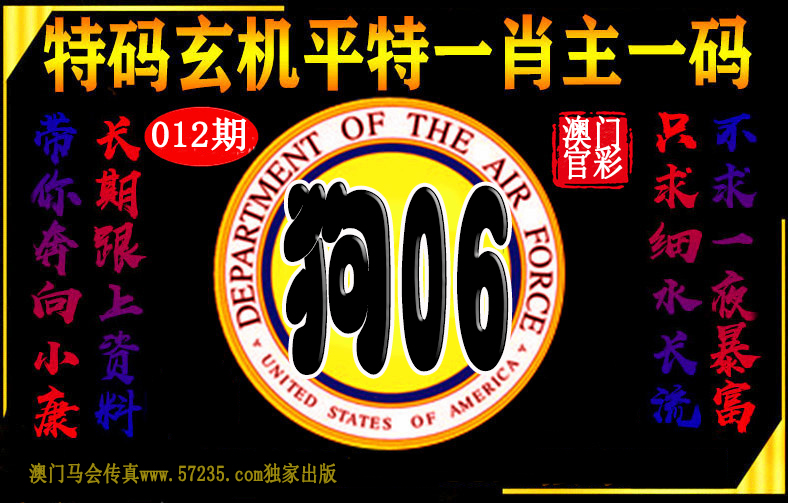
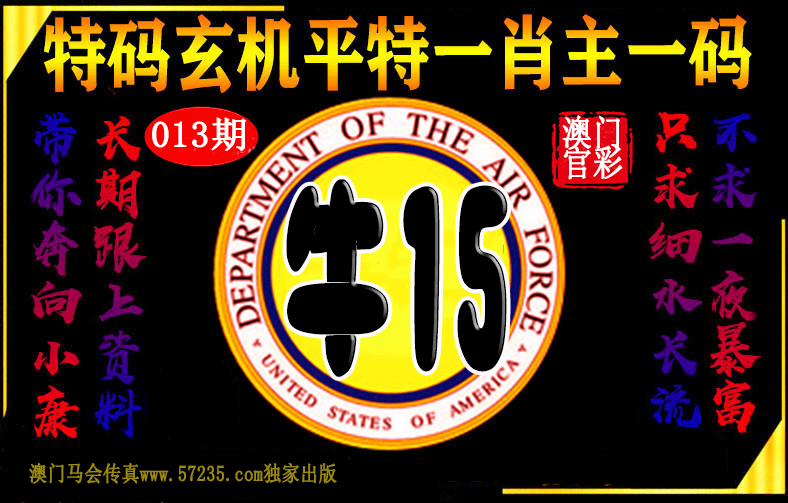
Update:  2024.01.13 11:23:09

Changed region(s): [[0.335, 0.328, 0.6701, 0.7753], [0.2437, 0.2386, 0.2741, 0.2982]]

diff --git a/Script/Src/xjw/杀两肖图.js b/Script/Src/xjw/杀两肖图.js
@@ -35,8 +35,8 @@ document.writeln("	");
 document.writeln("			<tr style=\'box-sizing: border-box;\'>");
 document.writeln("			<td height=\'40\' style=\'box-sizing: border-box;\'>");
 document.writeln("			");
-document.writeln("<a target=\'_blank\' href=\'https://49080.com/#/picture/28585\'><img src=\'https://tk2.zaojiao365.net:4949/col/12/c002.jpg\'  width=\'49%\'></a>");
-document.writeln("<a target=\'_blank\' href=\'https://49080.com/#/picture/209029\'><img src=\'https://tk2.zaojiao365.net:4949/col/12/hj44.jpg\'  width=\'49%\'></a>");
+document.writeln("<a target=\'_blank\' href=\'https://49080.com/#/picture/28585\'><img src=\'https://tk2.zaojiao365.net:4949/col/13/c002.jpg\'  width=\'49%\'></a>");
+document.writeln("<a target=\'_blank\' href=\'https://49080.com/#/picture/209029\'><img src=\'https://tk2.zaojiao365.net:4949/col/13/hj44.jpg\'  width=\'49%\'></a>");
 document.writeln("		</td></tr>");
 document.writeln("		");
 document.writeln("		");
@@ -57,9 +57,31 @@ document.writeln("				<tr style=\'box-sizing: border-box;\'>");
 document.writeln("					<td height=\'40\' style=\'box-sizing: border-box;\'>");
 document.writeln("			<p align=\'center\' style=\'box-sizing: border-box; padding: 0px; margin: 0px;\'>");
 document.writeln("			<font size=\'4\' style=\'margin: 0px; padding: 0px;\'>");
-document.writeln("			012期玄机网禁两肖<font color=\'#FF0000\'>【虎狗】</font>特开<font color=\'#0000FF\'>？00</font>准<br>");
-document.writeln("			012期澳门杀两肖图<font color=\'#FF0000\'>【鼠龙】</font>特开<font color=\'#0000FF\'>？00</font>准<br>");
-document.writeln("			012期澳门图库禁肖<font color=\'#FF0000\'>【鼠马】</font>特开<font color=\'#0000FF\'>？00</font>准</font></font></p></td>");
+document.writeln("			013期玄机网禁两肖<font color=\'#FF0000\'>【羊狗】</font>特开<font color=\'#0000FF\'>？00</font>准<br>");
+document.writeln("			013期澳门杀两肖图<font color=\'#FF0000\'>【龙虎】</font>特开<font color=\'#0000FF\'>？00</font>准<br>");
+document.writeln("			013期澳门图库禁肖<font color=\'#FF0000\'>【马虎】</font>特开<font color=\'#0000FF\'>？00</font>准</font></font></p></td>");
+document.writeln("		</tr>");
+document.writeln("<!--推广-->");
+document.writeln("				<tr style=\'box-sizing: border-box;\'>");
+document.writeln("					<td height=\'40\' style=\'box-sizing: border-box;\' bgcolor=\'#FFFF00\'>");
+document.writeln("			<p align=\'center\' style=\'box-sizing: border-box; padding: 0px; margin: 0px;\'>");
+document.writeln("			<a target=\'_blank\' href=\'https://j.1999xz.com:1999/\' style=\'text-decoration: none\'><img src=/yyy123.gif style=\'width:20px\' height=\'19\'><span style=font-family:楷体;color:#00f><font style=\'font-size: 15pt\'>点击投注澳门六合彩</font></span><span style=font-family:楷体;font-size:17pt;><font color=\'#FF0000\'>1999.cc</font></span></a></strong>");
+document.writeln("</p></td></tr>");
+document.writeln("<!--结束-->	");
+document.writeln("");
+document.writeln("");
+
+document.writeln("	");
+document.writeln("");
+document.writeln("		");
+document.writeln("													<!--开始-->");
+document.writeln("				<tr style=\'box-sizing: border-box;\'>");
+document.writeln("					<td height=\'40\' style=\'box-sizing: border-box;\'>");
+document.writeln("			<p align=\'center\' style=\'box-sizing: border-box; padding: 0px; margin: 0px;\'>");
+document.writeln("			<font size=\'4\' style=\'margin: 0px; padding: 0px;\'>");
+document.writeln("			012期玄机网禁两肖<font color=\'#FF0000\'>【虎狗】</font>特开<font color=\'#0000FF\'>马22</font>准<br>");
+document.writeln("			012期澳门杀两肖图<font color=\'#FF0000\'>【鼠龙】</font>特开<font color=\'#0000FF\'>马22</font>准<br>");
+document.writeln("			012期澳门图库禁肖<font color=\'#FF0000\'>【鼠马】</font>特开<font color=\'#0000FF\'>马22</font>错</font></font></p></td>");
 document.writeln("		</tr>");
 document.writeln("<!--推广-->");
 document.writeln("				<tr style=\'box-sizing: border-box;\'>");
